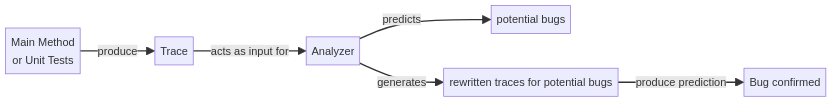
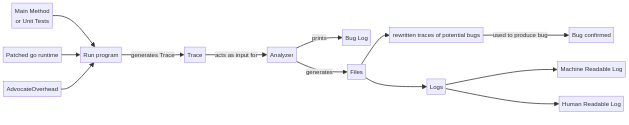
a bit more detail to chrt

diff --git a/flow.md b/flow.md
@@ -1,9 +1,17 @@
 ```mermaid
 flowchart LR
-Input[Main Method \n or Unit Tests] -->|produce| Trace
+MainUnit[Main Method \n or Unit Tests] --> Run[Run program]
+PatchedGRT[Patched go runtime] --> Run
+AdvocateOverhead --> Run
+Run -->|generates Trace| Trace
 Trace -->|acts as input for| Analyzer
-Analyzer -->|predicts| PotentialBugs[potential bugs]
-Analyzer -->|generates| RewrittenTraces[rewritten traces for potential bugs]
-RewrittenTraces -->|produce prediction| ConfirmedBug[Bug confirmed] 
+Analyzer -->|prints| PotentialBugs[Bug Log]
+Analyzer -->|generates| Files 
+Files --> RewrittenTraces
+Files --> Logs
+Logs --> MachineRead[Machine Readable Log]
+Logs --> HumanRead[Human Readable Log]
+RewrittenTraces[rewritten traces of potential bugs]
+RewrittenTraces -->|used to produce bug| ConfirmedBug[Bug confirmed] 
 
 ```

diff --git a/README.md b/README.md
@@ -12,7 +12,7 @@ Simplistic flowchart of the AdvocateGo Process
 ![Flowchart of AdvocateGoProcess](doc/img/flow.png "Title")
 
 ## Running your first analysis
-These steps can also be done automatically with scripts located in `toolchain` but doing these steps at least once are good to get a feel for how advocateGo works. You can find a more detailed tutorial for automation there.
+These steps can also be done automatically with scripts. If you want to know more about using them you can skip straight to the `Toolchain` section. Doing these steps manually at least once is still encouraged good to get a feel for how advocateGo works.
 ### Step 1: Add Overhead
 You need to adjust the main method or unit test you want to analyze slightly in order to analyze them.
 The code snippet you need is
